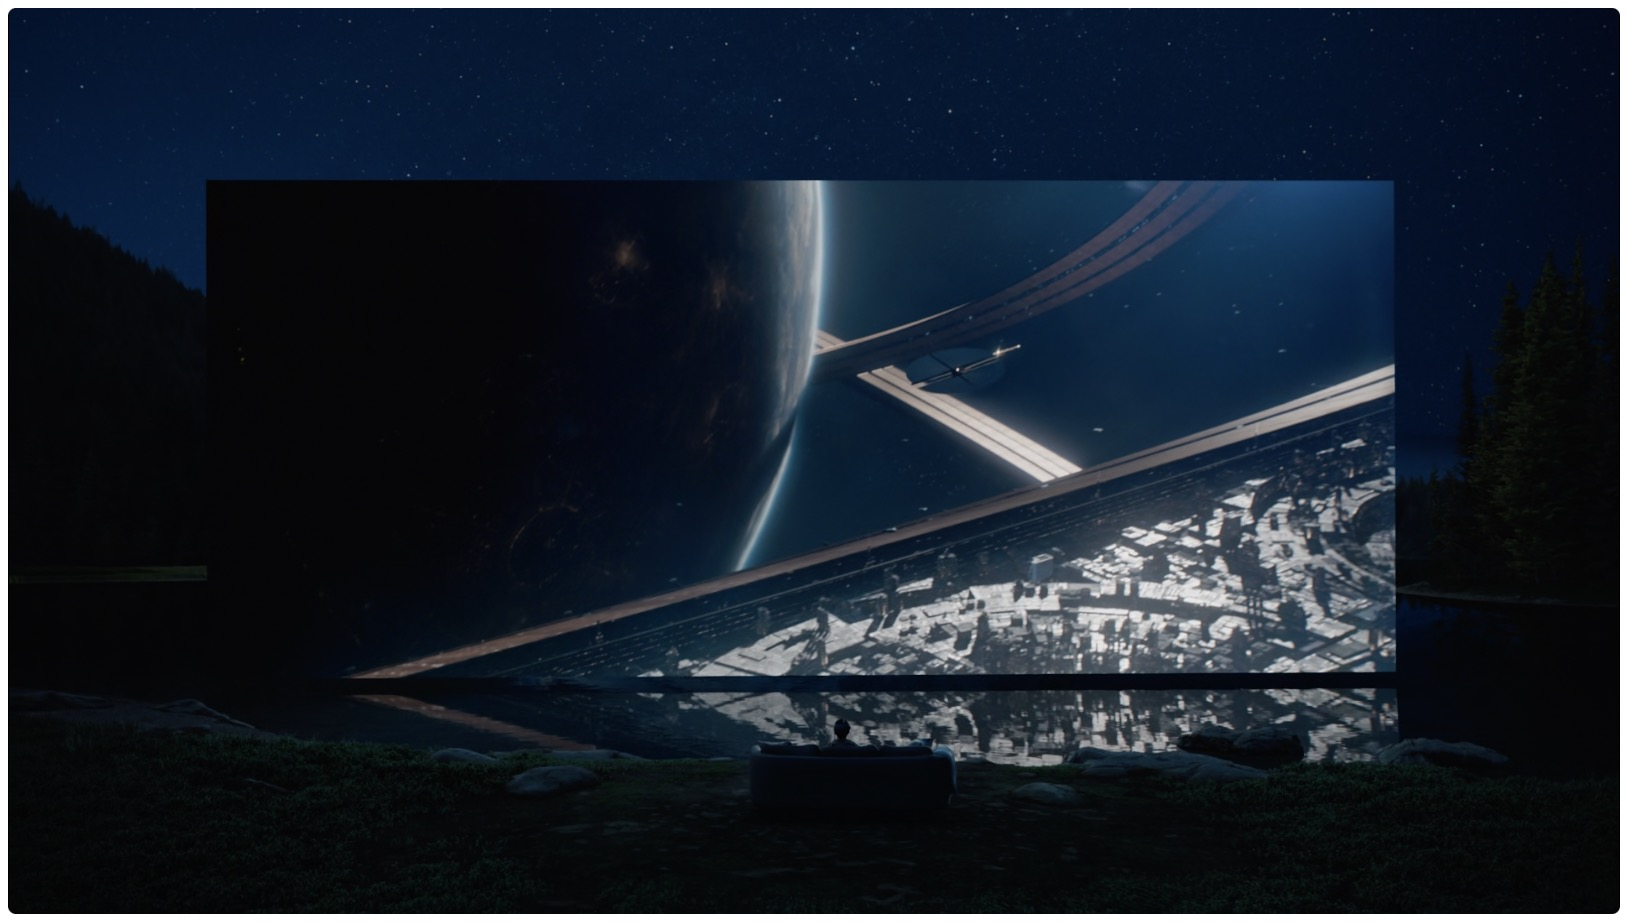
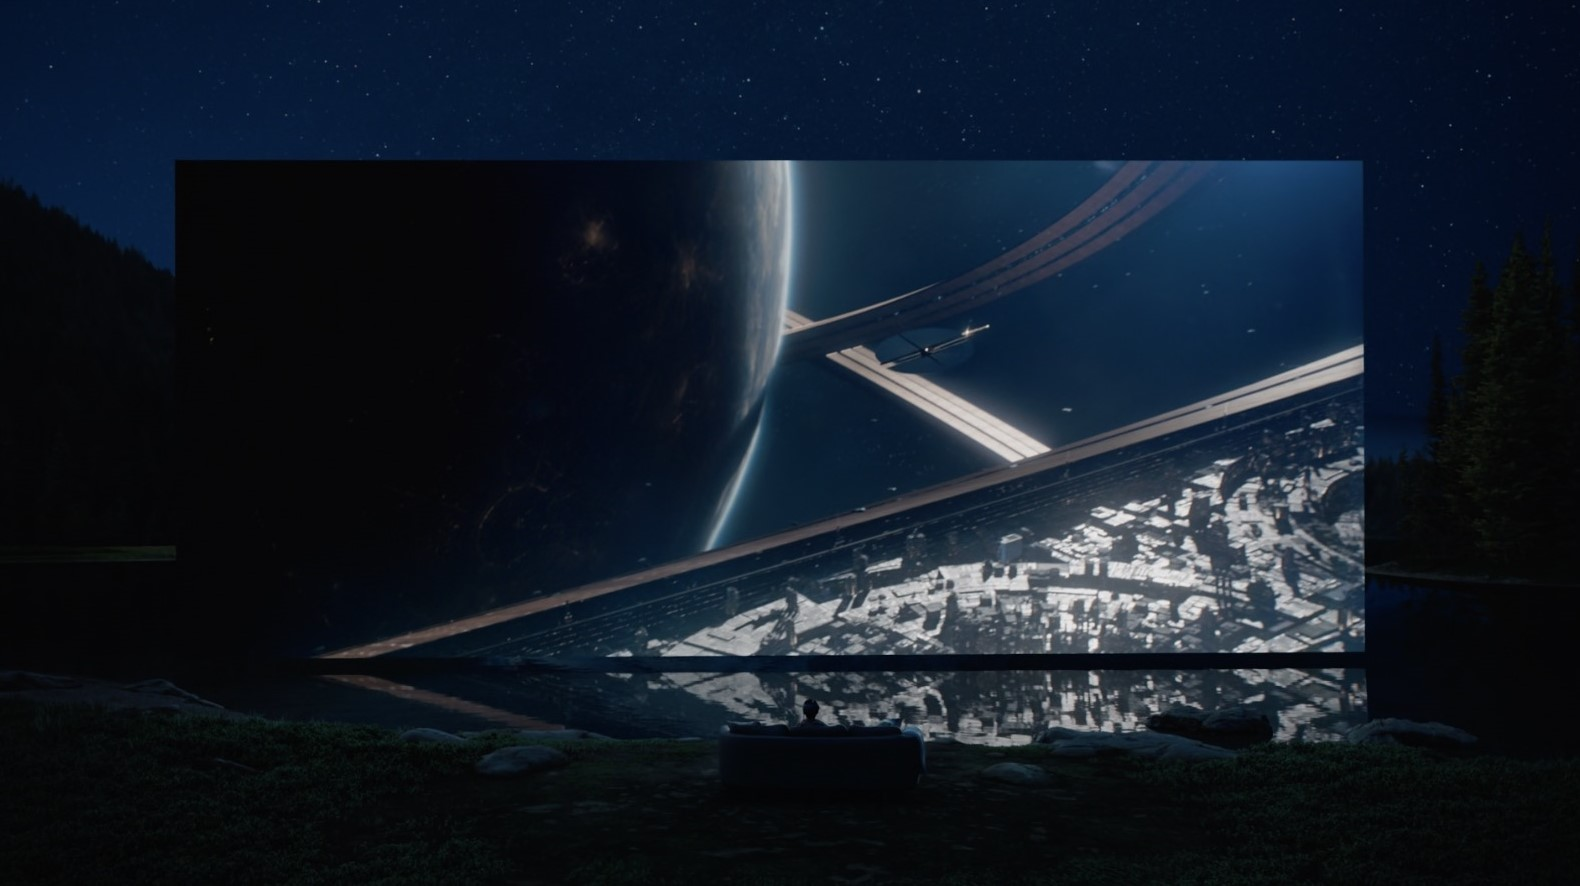
finished entertainment section, added image and text, made it responsive

diff --git a/FCC 4- Vision Pro Product Landing Page/styles.css b/FCC 4- Vision Pro Product Landing Page/styles.css
@@ -428,7 +428,15 @@ nav li a:not(.buy):active {
         #000000)
 }
 
+.entertainment-img {
+    border-radius: 30px;
+    margin-top: -80px;
+}
 
+.entertainment-p {
+    margin-top: 280px;
+    line-height: 40px;
+}
 
 @media only screen and (max-width: 1400px) and (min-width: 850px) {
 
@@ -543,7 +551,7 @@ nav li a:not(.buy):active {
     }
 
     #photos {
-        height: 1700px;
+        max-height: 1700px;
     }
     
 
@@ -553,6 +561,12 @@ nav li a:not(.buy):active {
     .underwater  {
         width: 100%;
     }
+
+    .entertainment-p {
+        margin-top: 280px;
+        line-height: 40px;
+    }
+
 }
 
 @media only screen and (max-width: 850px) {
@@ -742,18 +756,28 @@ nav li a:not(.buy):active {
     }
     #photos {
         height: auto;
-        max-height: 4000px;
+        max-height: 2300px;
     }
 
     #photos {
         position: static;
         margin-top: 340px;
     }
+    .entertainment-p {
+        margin-top: 320px;
+        line-height: 40px;
+    }
+
+    .entertainment-img {
+        height: 400px;
+        border-radius: 0px;
+        margin-top: -140px;
+    }
 }
 
-@media only screen and (min-width: 450px) and (max-width: 850px ) {
+@media only screen and (min-width:464px) and (max-width: 850px ) {
     #photos {
         height: auto;
-        max-height: 1900px;
+        max-height: 2090px;
     } 
 }

diff --git a/FCC 4- Vision Pro Product Landing Page/index.html b/FCC 4- Vision Pro Product Landing Page/index.html
@@ -72,7 +72,6 @@
                 </div>
                 <h2 class="large-big bold highlight-black deep-h2">going in deep🌊...</h2>
                 <div class="blue-gradient">
-
                 </div>
                 <img class="background-img underwater" src="img/ocean.jpg">
             </section>
@@ -80,8 +79,8 @@
             <section id="entertainment">
                 <h2 class="large-big bold entertainment-h2">The ultimate theater.
                     Wherever you are.</h2>
-                <div class="blue-container">
-                </div>
+                <img src="img/software/movies.jpg" class="background-img entertainment-img">
+                <p class="normal entertainment-p"><span class="bold highlight">Apple Vision Pro can transform any room into your own personal theater.</span> Expand your movies, shows, and games to your perfect size and experience them in Spatial Audio. Apple Immersive Video puts you in the center of the action with mind‑blowing immersion. And with more pixels than a 4K TV for each eye, you can <span class="bold highlight"> enjoy stunning content wherever you are</span> — on a long flight or the couch at home.</p>
             </section>
             <!--WORK-->
             <section id="work">
